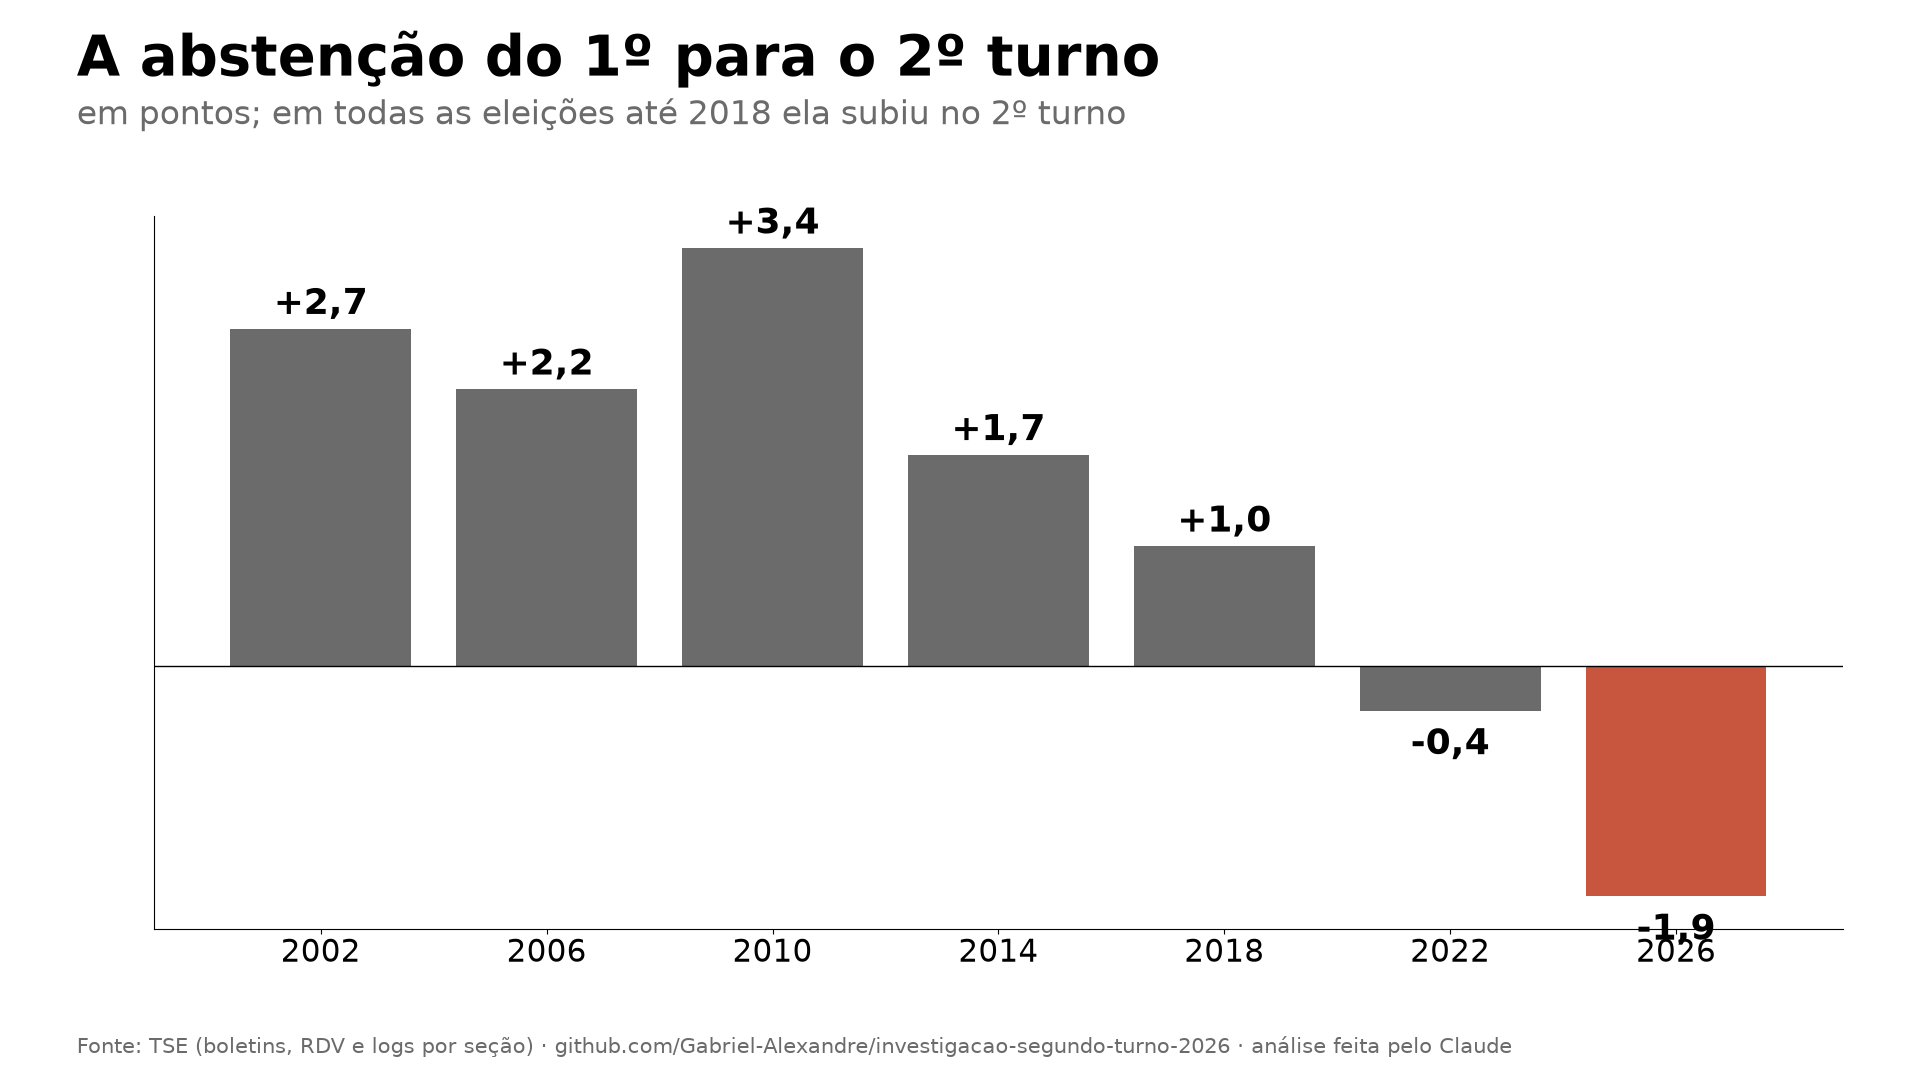
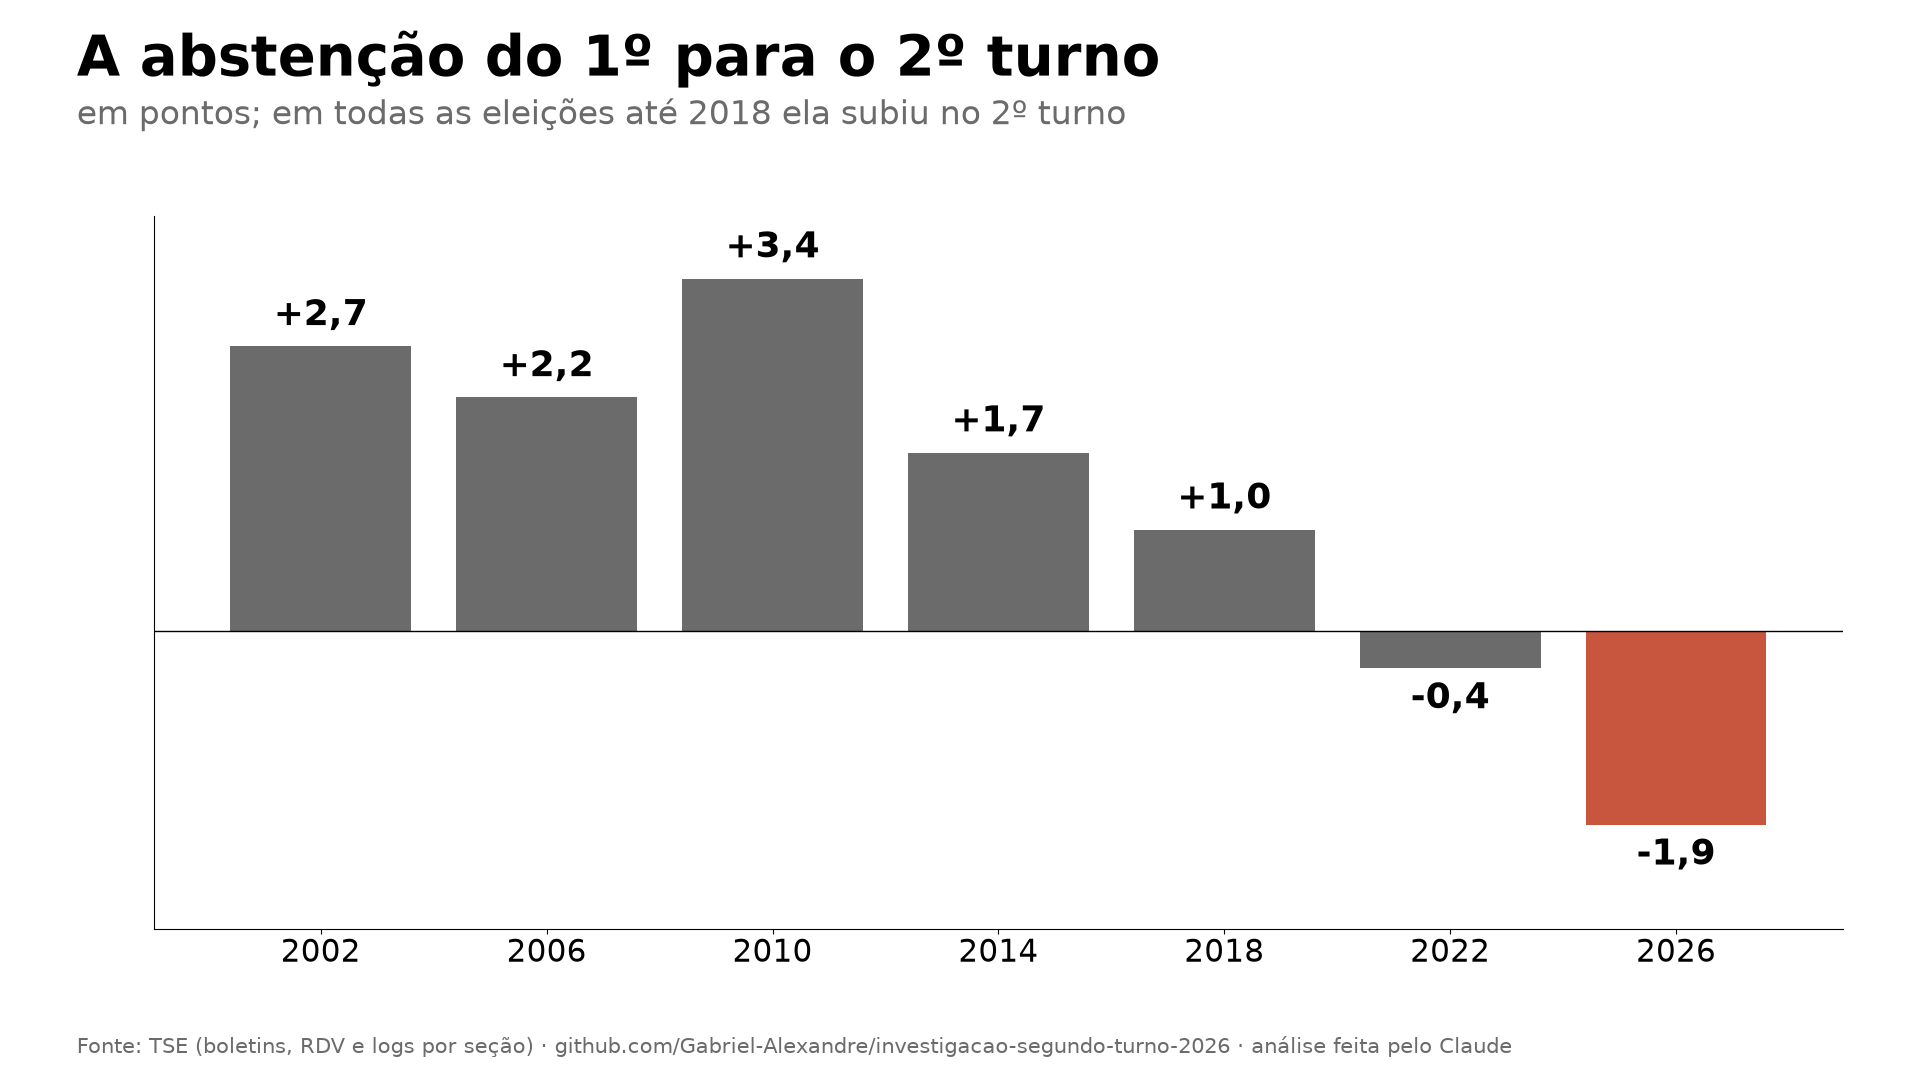
g11 e g12 refeitos para o vídeo: o -1,9 de 2026 com folga do ano no g11, e a fonte do g12 dentro da largura

diff --git a/ferramentas/graficos.py b/ferramentas/graficos.py
@@ -224,7 +224,10 @@ def g11_abstencao():
     v = d.abstencao_variou_pontos
     ax.bar(d.ano.astype(str), v, color=[L if a == 2026 else B for a in d.ano])
     for i, x in enumerate(v):
-        ax.text(i, x + (0.12 if x > 0 else -0.35), f"{x:+.1f}".replace(".", ","), ha="center", fontsize=26, weight="bold")
+        # o rótulo negativo fica logo abaixo da barra, com folga até o ano (o -1,9 encostava no 2026)
+        ax.text(i, x + (0.12 if x > 0 else -0.12), f"{x:+.1f}".replace(".", ","), ha="center", va="bottom" if x > 0 else "top",
+                fontsize=26, weight="bold")
+    ax.set_ylim(min(v.min() - 1.0, -0.5), v.max() + 0.6)
     ax.axhline(0, color="black", lw=1)
     ax.set_yticks([])
     salvar(f, "g11_abstencao_entre_turnos.png")
@@ -233,7 +236,7 @@ def g11_abstencao():
 def g12_viradas_por_ano():
     d = pd.read_csv(R / "resultados/rodada5_municipios_por_ano.csv")
     f = fig("Cidades que viraram entre os turnos", "municípios em que o líder do 1º turno entre os 2 finalistas perdeu o 2º turno",
-            fonte="Fonte: TSE (votação por candidato e município, 2002 a 2022; boletins por seção, 2026) · github.com/Gabriel-Alexandre/investigacao-segundo-turno-2026 · análise feita pelo Claude")
+            fonte="Fonte: TSE (votos por município, 2002 a 2022; boletins por seção, 2026) · github.com/Gabriel-Alexandre/investigacao-segundo-turno-2026 · análise feita pelo Claude")
     ax = f.add_axes([0.08, 0.14, 0.88, 0.66])
     x = d.ano.astype(str)
     ax.bar(x, d.viraram_para_o_pt, color=L, label="viraram para o PT")
